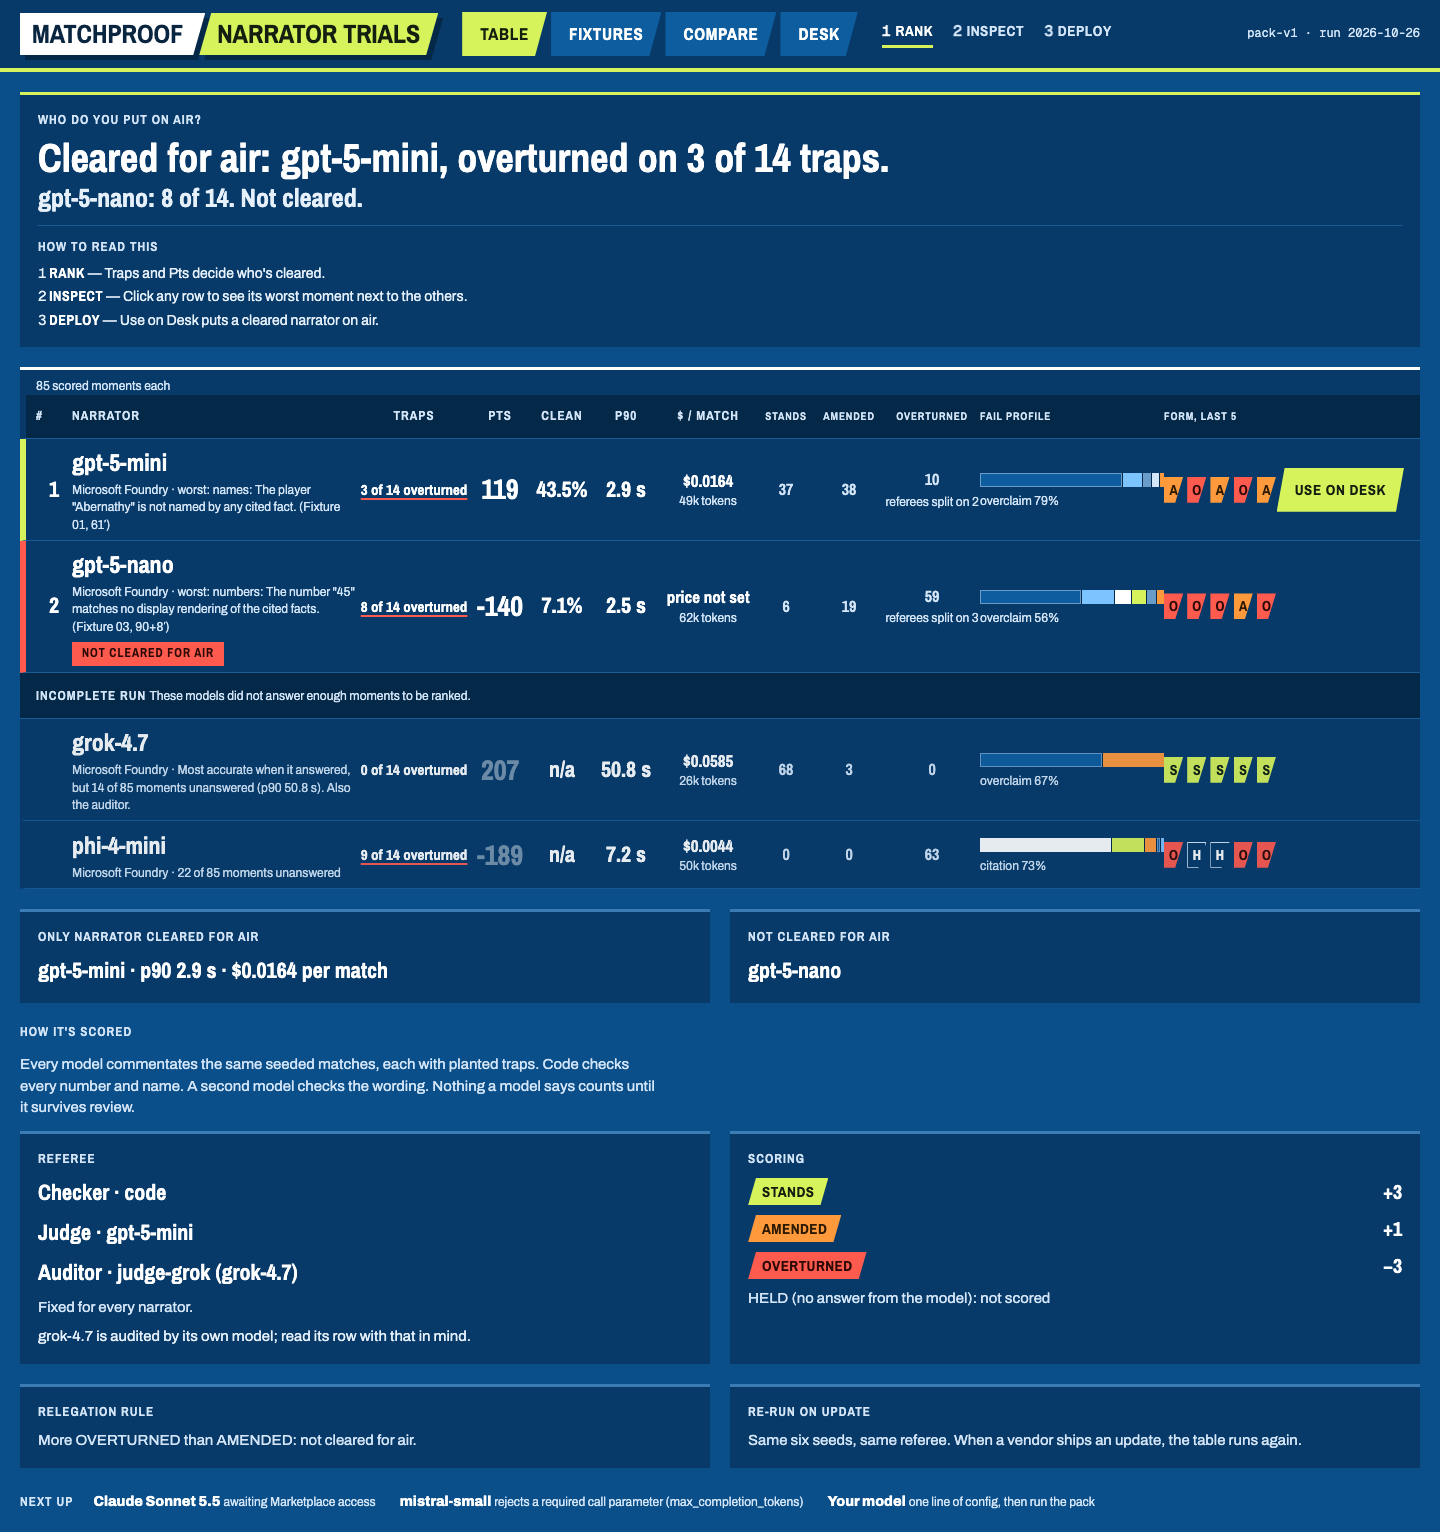
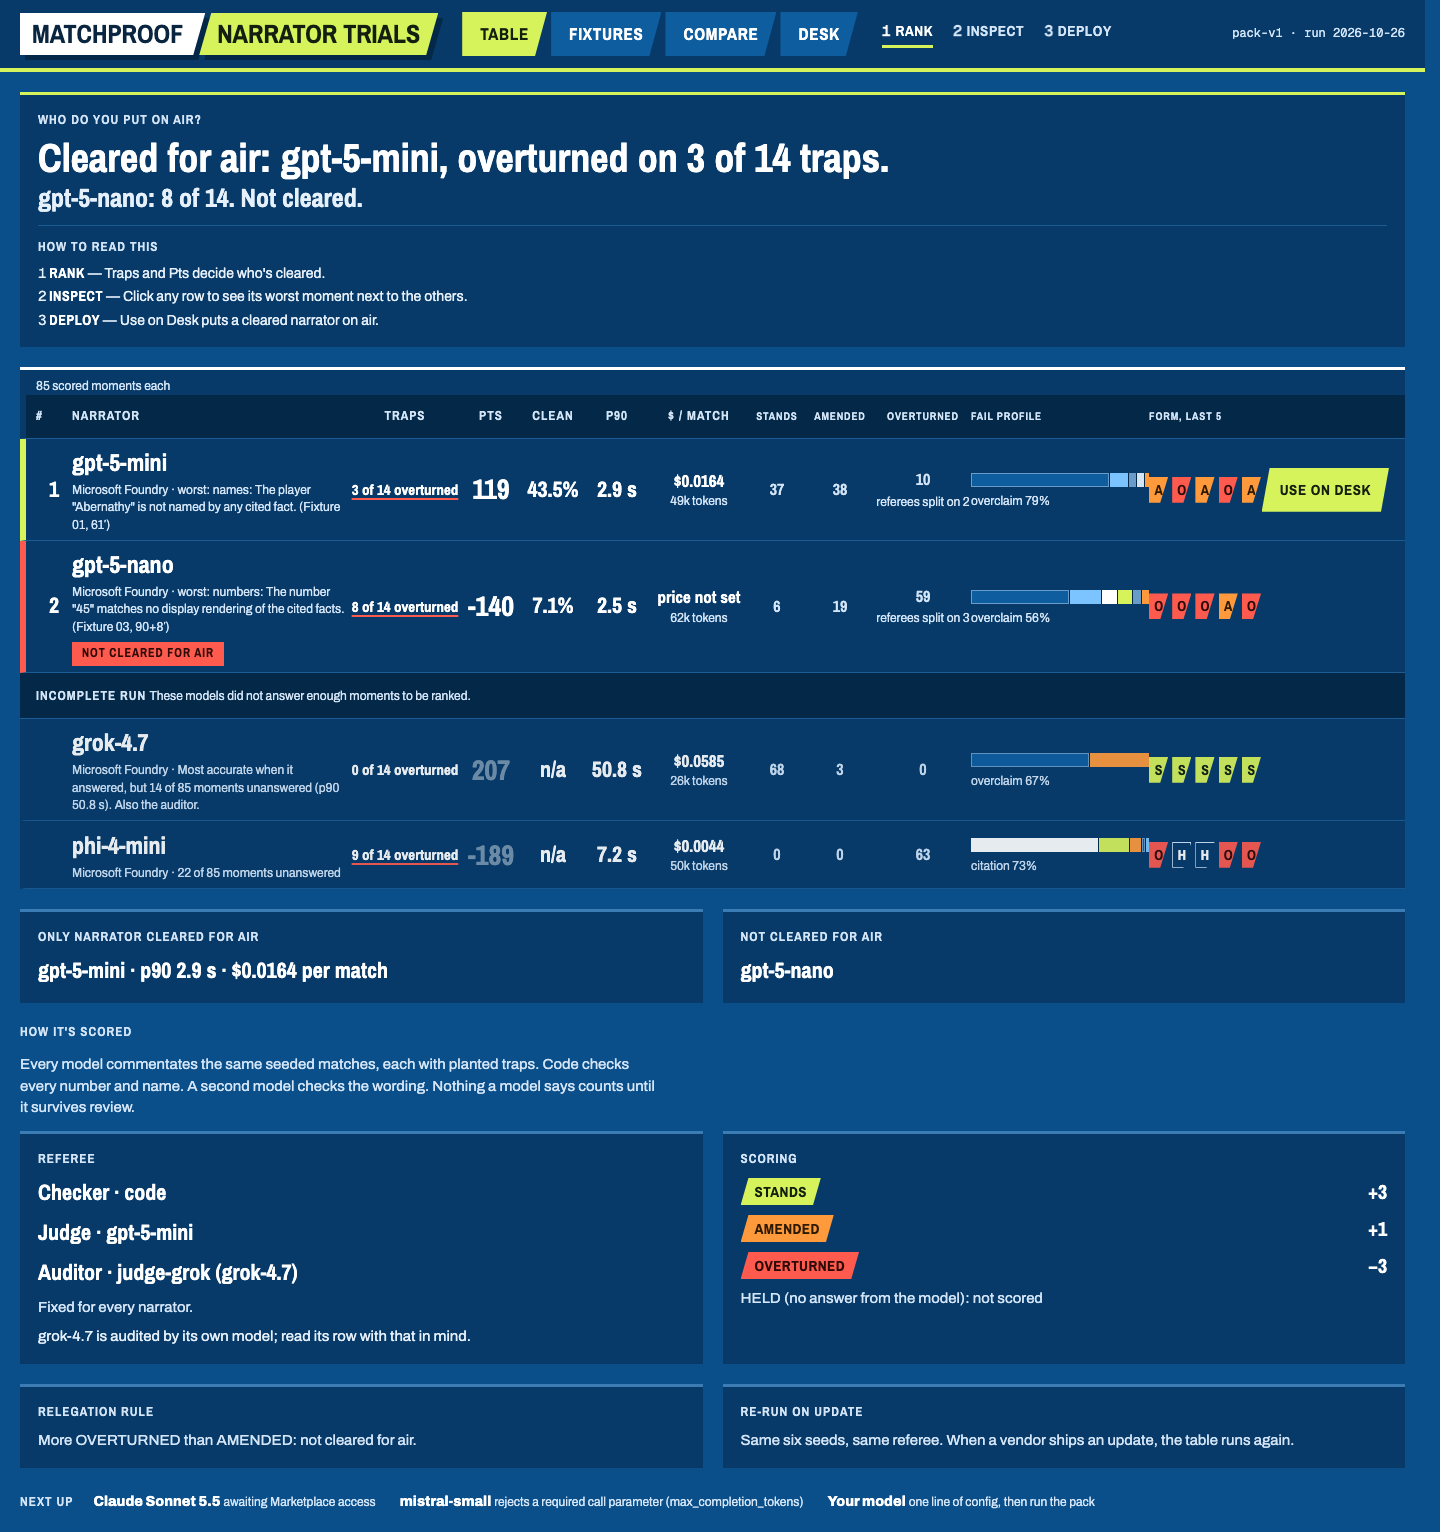
Reach every match from Compare and give every page the same top bar

diff --git a/apps/web/src/components/trials/CompareView.tsx b/apps/web/src/components/trials/CompareView.tsx
@@ -5,7 +5,7 @@ import { useRouter, useSearchParams } from "next/navigation";
 import { useEffect, useMemo } from "react";
 import { copy, fill } from "@/desk/copy";
 import type { PitchView } from "@/desk/pitchModel";
-import { beatsOf, fixtureById, momentOf, web } from "@/trials/data";
+import { beatsOf, firstTrapBeat, fixtureById, momentOf, web } from "@/trials/data";
 import { fixtureNumber } from "@/trials/format";
 import { Pitch } from "@/viz/Pitch";
 import { NarratorCard } from "./NarratorCard";
@@ -60,6 +60,14 @@ export function CompareView({ fixture, beat }: { fixture: string; beat: string }
     );
   }
   const query = focus ? `&focus=${focus}` : "";
+  const keep = focus ? `?focus=${focus}` : "";
+  const trapLabel = new Map(f.trap_beats.map((tb, i) => [tb.beat, (f.traps[i]?.label ?? "").replace(/\s+\S+$/, "")]));
+  const momentText = (id: string): string => {
+    const m = momentOf(fixture, id);
+    const clock = m?.clock ?? "";
+    const trap = trapLabel.get(id);
+    return trap !== undefined ? fill(t.trapOption, { clock, label: trap }) : fill(t.momentOption, { clock, label: (m?.kind ?? "").replace(/_/g, " ") });
+  };
   const step = (to: string | undefined, label: string, glyph: string) =>
     to ? (
       <Link className="tr-btn tr-btn--sm" href={`/compare/${fixture}/${to}${focus ? `?focus=${focus}` : ""}`} aria-label={label}>
@@ -74,7 +82,38 @@ export function CompareView({ fixture, beat }: { fixture: string; beat: string }
   return (
     <Shell>
       <div className="tr-crumb">
-        <span className="tr-mono">{fill(t.crumb, { fixture: fixtureNumber(fixture), home: f.home, away: f.away })}</span>
+        <div className="tr-crumb-field">
+          <label htmlFor="cmp-fixture" className="tr-hd">
+            {t.fixtureSelect}
+          </label>
+          <select
+            id="cmp-fixture"
+            className="mp-select"
+            value={fixture}
+            onChange={(e) => {
+              const first = firstTrapBeat(e.target.value) ?? beatsOf(e.target.value)[0];
+              if (first) router.push(`/compare/${e.target.value}/${first}${keep}`);
+            }}
+          >
+            {web.fixtures.map((x) => (
+              <option key={x.id} value={x.id}>
+                {fill(t.fixtureOption, { n: fixtureNumber(x.id), home: x.home, away: x.away, brief: x.brief })}
+              </option>
+            ))}
+          </select>
+        </div>
+        <div className="tr-crumb-field">
+          <label htmlFor="cmp-moment" className="tr-hd">
+            {t.momentSelect}
+          </label>
+          <select id="cmp-moment" className="mp-select" value={beat} onChange={(e) => router.push(`/compare/${fixture}/${e.target.value}${keep}`)}>
+            {beats.map((id) => (
+              <option key={id} value={id}>
+                {momentText(id)}
+              </option>
+            ))}
+          </select>
+        </div>
         <span className="tr-chip tr-chip--light">{fill(t.chip, { clock: moment.clock, label: moment.kind.replace(/_/g, " ") })}</span>
         <span className="tr-steps-nav">
           {step(prev, t.prev, "←")}

diff --git a/apps/web/e2e/trials.spec.ts b/apps/web/e2e/trials.spec.ts
@@ -99,3 +99,38 @@ test("screenshots", async ({ page }) => {
     if (size === PHONE) expect(await overflow(page), "compare page scrolls sideways").toBeLessThanOrEqual(0);
   }
 });
+
+test("Compare reaches every match: the Fixture select goes to its first trap, the Moment select lists every moment", async ({ page }) => {
+  await open(page, COMPARE);
+  const fixture = page.getByLabel("Fixture", { exact: true });
+  await fixture.selectOption("fx-03");
+  await expect(page).toHaveURL(/\/compare\/fx-03\/bt-[^?]+\?focus=gpt-5-nano$/);
+  const moment = page.getByLabel("Moment", { exact: true });
+  const options = await moment.locator("option").allTextContents();
+  expect(options.length).toBeGreaterThan(5);
+  expect(options.filter((o) => o.includes("TRAP · "))).toHaveLength(2); // fx-03 plants two traps
+  expect(options.some((o) => /^\d+′? .*TRAP · STOPPAGE-TIME PENALTY$/.test(o) || o.includes("TRAP · STOPPAGE-TIME PENALTY"))).toBe(true);
+  const other = (await moment.locator("option:not(:checked)").first().getAttribute("value")) ?? "";
+  await moment.selectOption(other);
+  await expect(page).toHaveURL(new RegExp(`/compare/fx-03/${other}\\?focus=gpt-5-nano$`));
+});
+
+test("the top bar is the same height and place on every page, and the desk's controls sit under it", async ({ page }) => {
+  for (const [name, size] of [["1440", DESK], ["390", PHONE]] as const) {
+    const boxes: number[][] = [];
+    for (const path of ["/", "/fixtures", COMPARE, "/desk"]) {
+      await open(page, path, size);
+      await page.evaluate(() => window.scrollTo(0, 0));
+      const box = await page.locator("header.tr-bar").boundingBox();
+      const below = await page.locator("header.tr-bar + *").first().boundingBox();
+      expect(box).not.toBeNull();
+      boxes.push([box?.x ?? -1, box?.y ?? -1, box?.width ?? -1, box?.height ?? -1, below?.y ?? -1]);
+      if (path === "/" || path === "/desk") await page.screenshot({ path: `${OUT}/${path === "/" ? "shift-table" : "shift-desk"}-${name}.png` });
+    }
+    for (const b of boxes) expect(b, `top bar at ${name}`).toEqual(boxes[0]);
+  }
+  await open(page, "/desk");
+  const strip = await page.locator("header.mp-header--strip").boundingBox();
+  const bar = await page.locator("header.tr-bar").boundingBox();
+  expect(strip?.y).toBe((bar?.y ?? 0) + (bar?.height ?? 0));
+});

diff --git a/apps/web/src/app/trials.css b/apps/web/src/app/trials.css
@@ -1,6 +1,6 @@
 /* Narrator Trials pages. Tokens only (ADR 0006): every colour is a --mp- variable. */
 .tr-page { min-height: 100vh; }
-.tr-bar { display: flex; flex-wrap: wrap; align-items: center; gap: 12px 24px; padding: 12px 20px; background: var(--mp-surface); border-bottom: 4px solid var(--mp-lime); }
+.tr-bar { box-sizing: border-box; height: var(--tr-bar-h, 72px); overflow: hidden; display: flex; flex-wrap: nowrap; align-items: center; gap: 12px 24px; padding: 0 20px; background: var(--mp-surface); border-bottom: 4px solid var(--mp-lime); }
 .tr-nav { display: flex; flex-wrap: wrap; gap: 4px; }
 .tr-nav-link { display: inline-flex; align-items: center; min-height: 44px; padding: 0 18px; font-family: var(--mp-display); font-weight: 700; font-size: 17px; letter-spacing: 0.04em; text-transform: uppercase; color: var(--mp-text); background: var(--mp-raised); text-decoration: none; clip-path: var(--mp-cutTab); }
 .tr-nav-link[aria-current="page"] { background: var(--mp-lime); color: var(--mp-limeInk); }
@@ -193,3 +193,21 @@
 .tr-gridnote { margin: 0; }
 .tr-fx-row .tr-who-link::after { content: none; }
 .tr-main > .tr-hero { flex: none; }
+
+/* One top bar, one height, on every page; the desk's own controls sit in a strip directly under it. */
+html { scrollbar-gutter: stable; }
+.mp-header--strip { min-height: 64px; padding-top: 0; padding-bottom: 0; background: var(--mp-surface); }
+@media (max-width: 1100px) {
+  .tr-bar { --tr-bar-h: 148px; flex-wrap: wrap; align-content: center; gap: 8px 16px; }
+  .tr-bar .tr-run { display: none; }
+  .tr-bar .tr-steps { font-size: 13px; gap: 14px; }
+}
+@media (max-width: 720px) {
+  .tr-bar .mp-wordmark { font-size: 18px; white-space: nowrap; }
+  .tr-bar .mp-wordmark span:first-child { padding: 6px 16px 6px 8px; }
+  .tr-bar .mp-wordmark span:last-child { padding: 6px 12px; }
+  .tr-bar .tr-nav { flex-wrap: nowrap; gap: 2px; }
+  .tr-bar .tr-nav-link { padding: 0 11px; font-size: 14px; }
+}
+.tr-crumb-field { display: flex; flex-direction: column; gap: 4px; min-width: 0; }
+.tr-crumb-field .mp-select { max-width: 100%; }

diff --git a/apps/web/src/components/desk/HeaderBar.tsx b/apps/web/src/components/desk/HeaderBar.tsx
@@ -31,7 +31,7 @@ export function HeaderBar({ copy, homeShort, awayShort, score, clock, status, mo
   return (
     <>
       {topBar ? <TopBar /> : null}
-    <header className="mp-header mp-above">
+    <header className={`mp-header mp-above${topBar ? " mp-header--strip" : ""}`}>
       {topBar ? deskLabel ? <span className="tr-hd tr-desk-label">{deskLabel}</span> : null : <Wordmark first={copy.wordmark.first} second={copy.wordmark.second} />}
       <Scorebug
         label={h.score}
